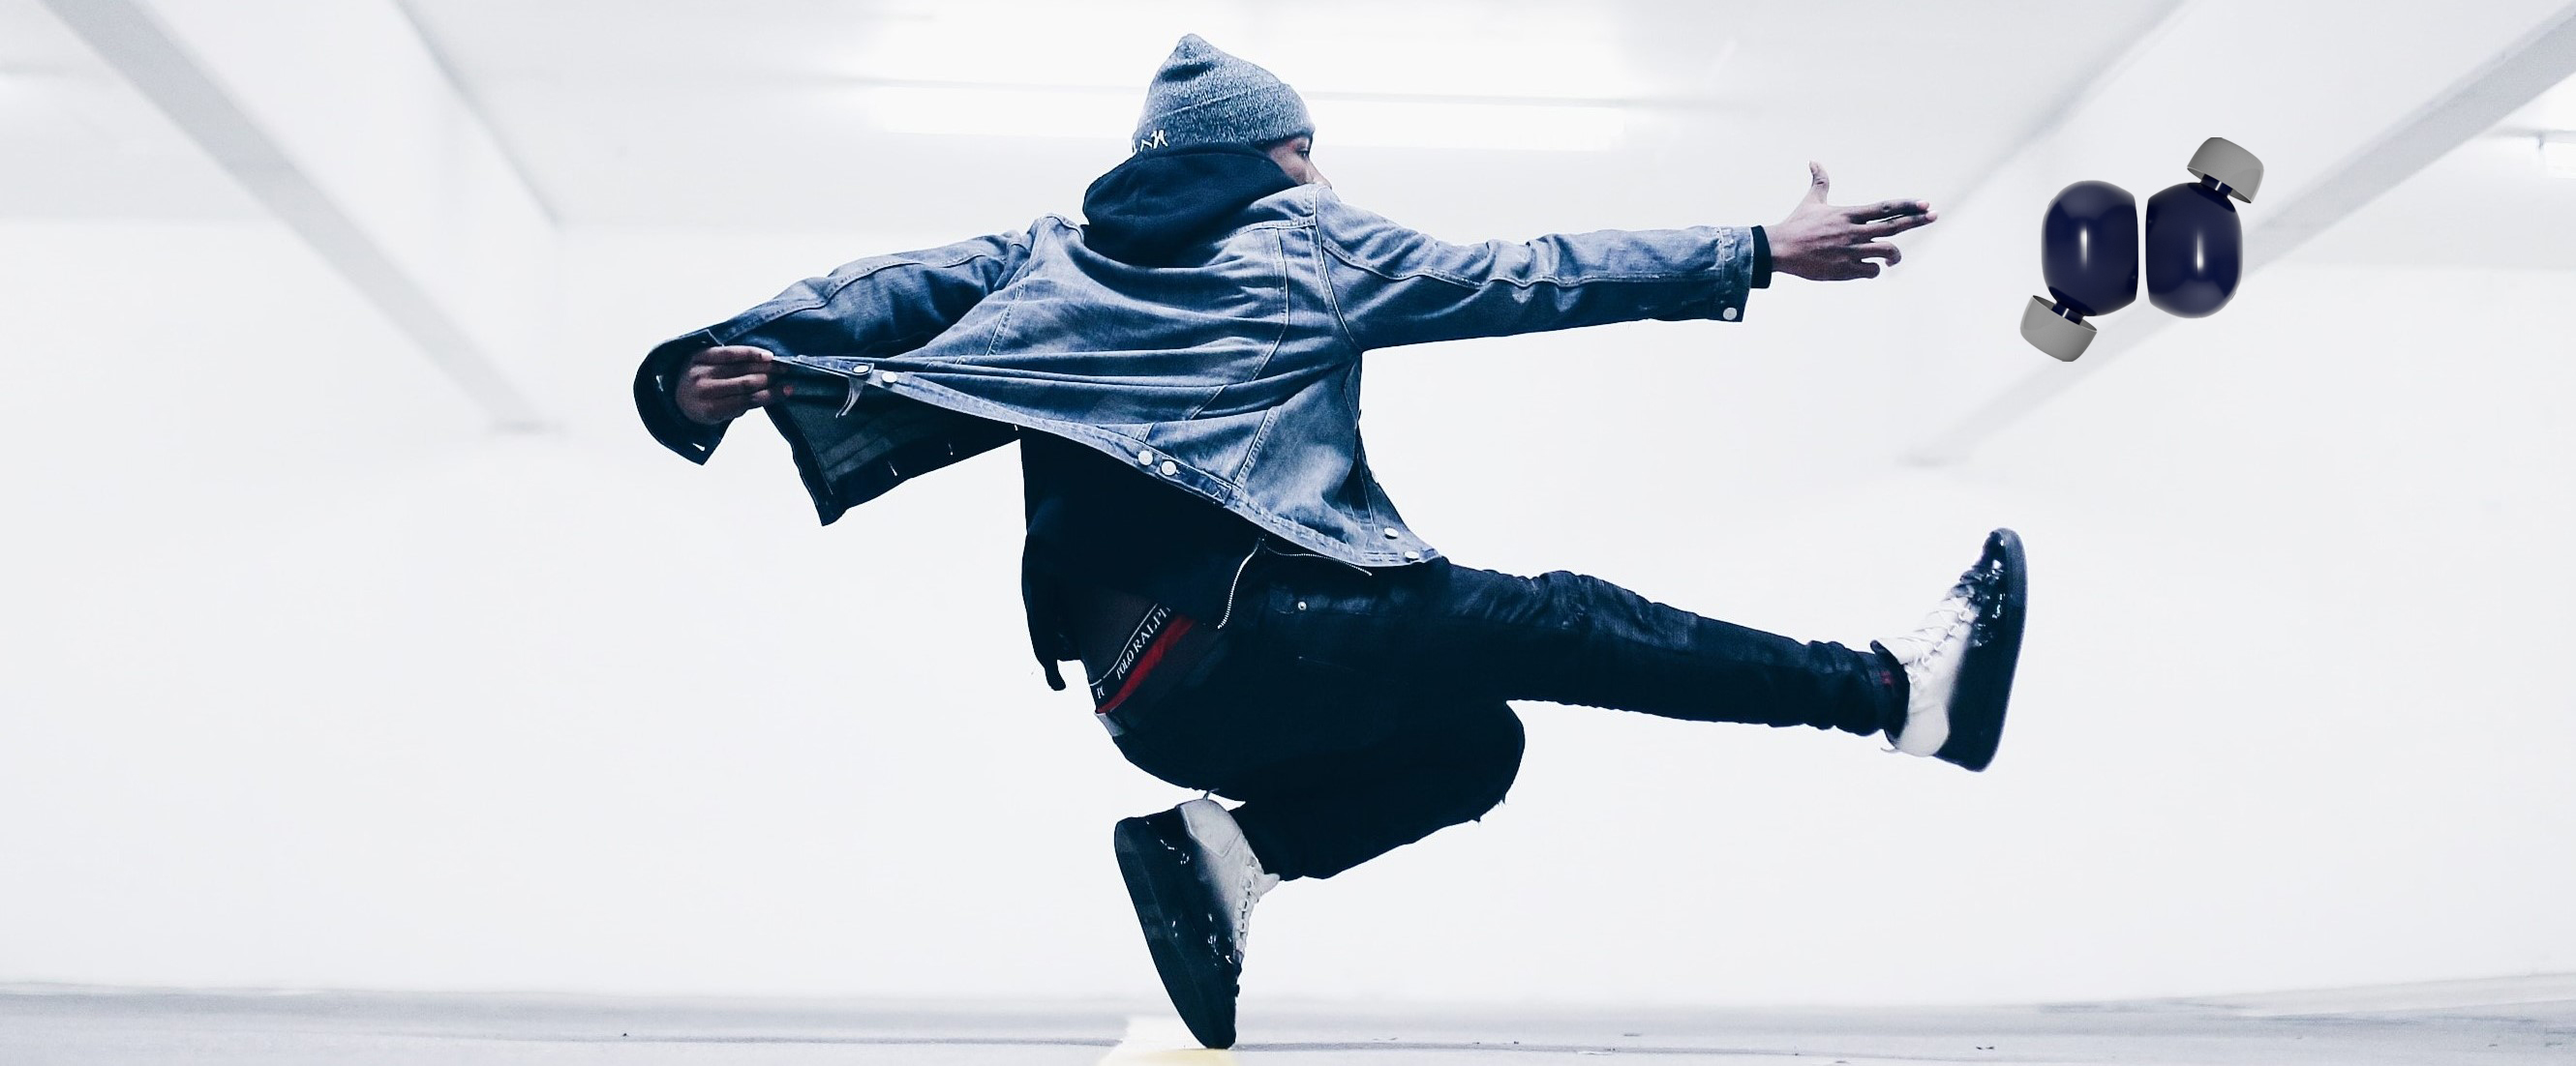
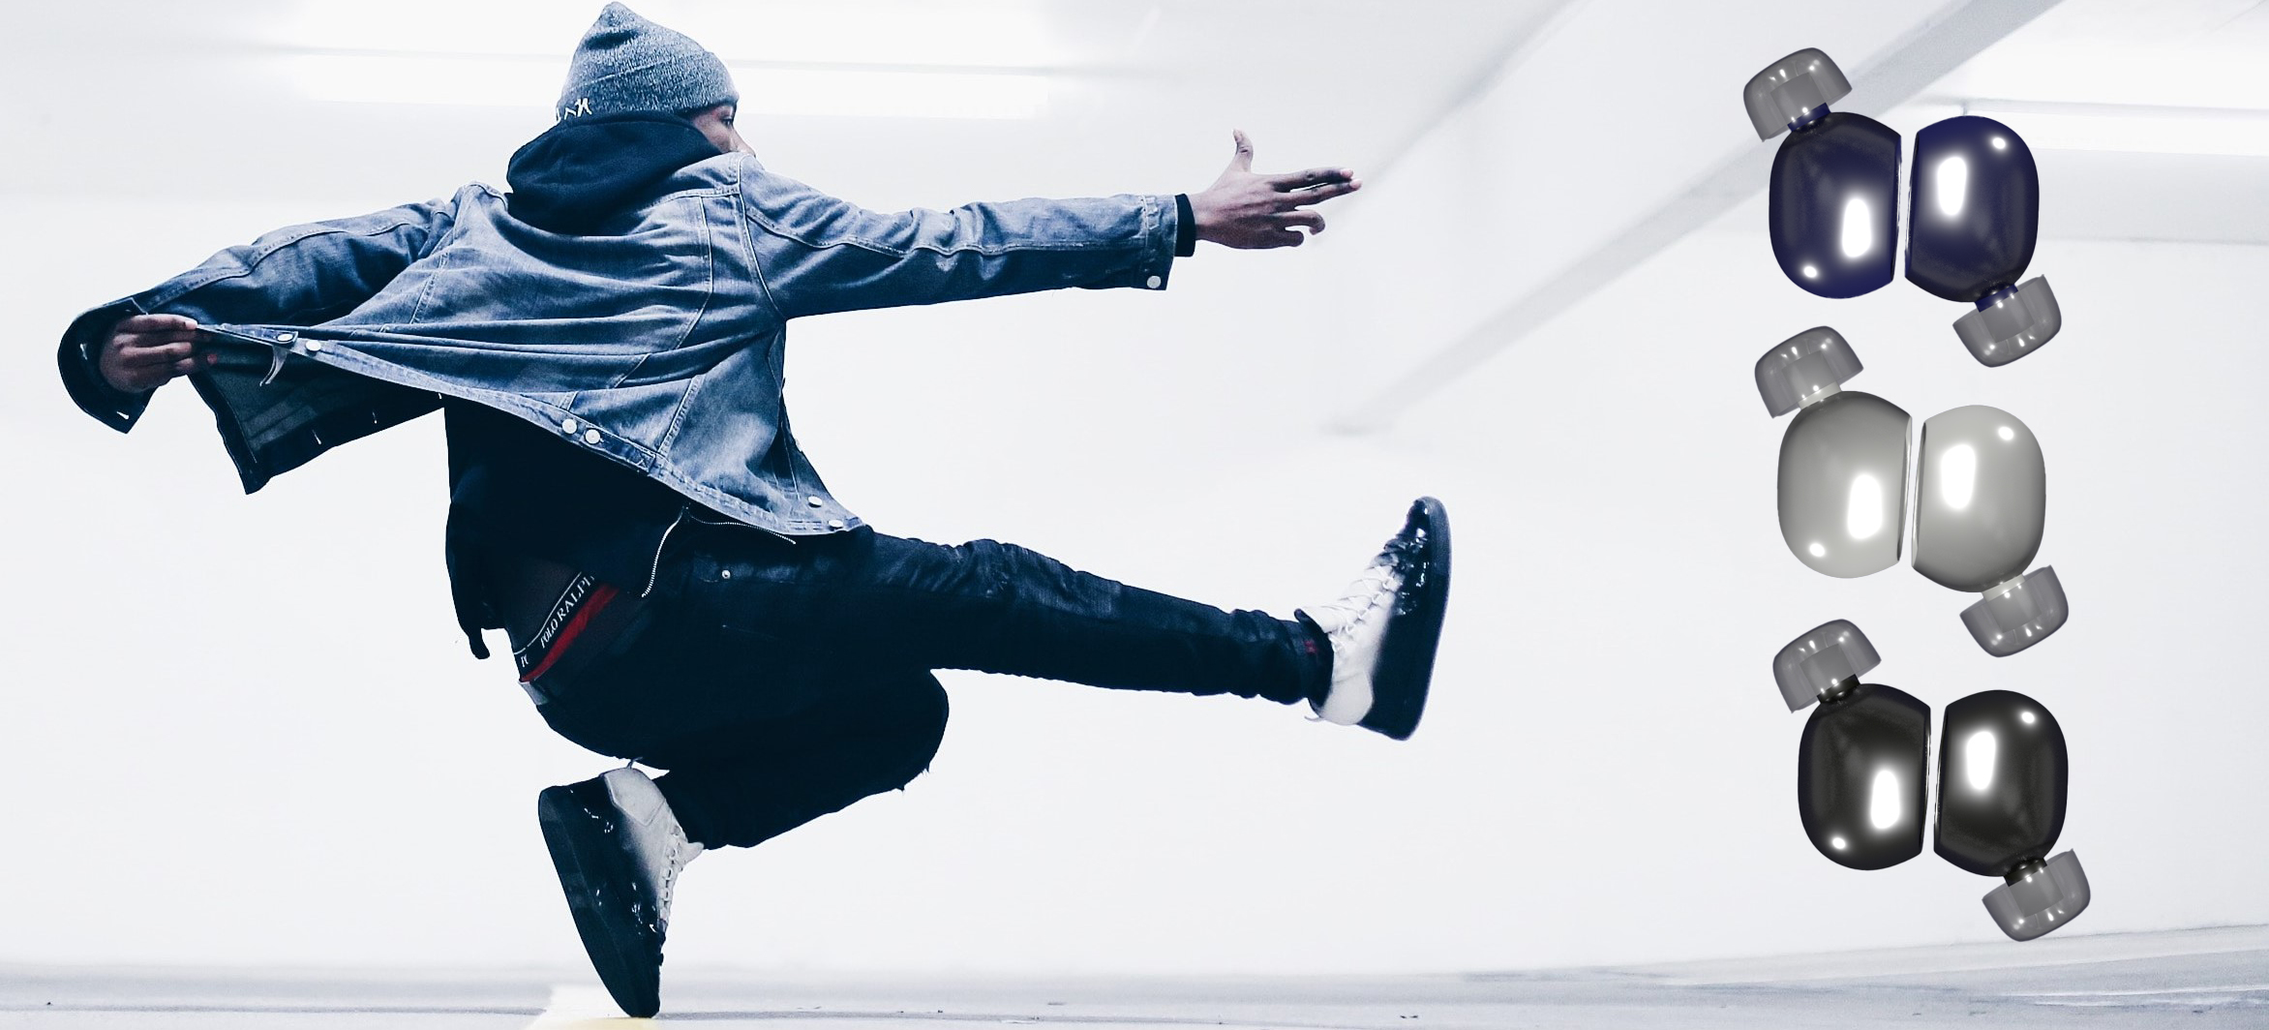
imgs

diff --git a/index.html b/index.html
@@ -117,10 +117,10 @@
     <section class="grid-con" id="caracteristics">
     <h2 class="col-span-full">Earbuds in Action</h2>
         <div class="col-span-full m-col-span-8">
-            <img src="images/caracteristics.jpg" alt="caracteristics">
+            <img class="imagenAnimada" src="images/caracteristics.jpg" alt="caracteristics">
         </div>
         <div class="col-span-full m-col-span-4">
-            <p>Unlock a world of sound like never before with Beatbuds. Immerse yourself in pristine audio quality, experience all-day comfort, and stay connected seamlessly. Crafted with innovative technology and designed for style, our earbuds redefine your audio journey.<br> Elevate your music, calls, and entertainment to new heights. <br><br> It's time to discover the difference!</p><br>
+            <p>Unlock a world of sound like never before with Beatbuds. Immerse yourself in pristine audio quality, experience all-day comfort, and stay connected seamlessly. Crafted with innovative technology and designed for style, our earbuds redefine your audio journey.<br><br> Elevate your music, calls, and entertainment to new heights. It's time to discover the difference!<br><br> Select your favorite shade from our options: Vibrant blue - Classic white - Elegant black<br></p>
             <a class="col-span-full" href="shop.html">Buy Now!</a>
         </div>
     </section>
